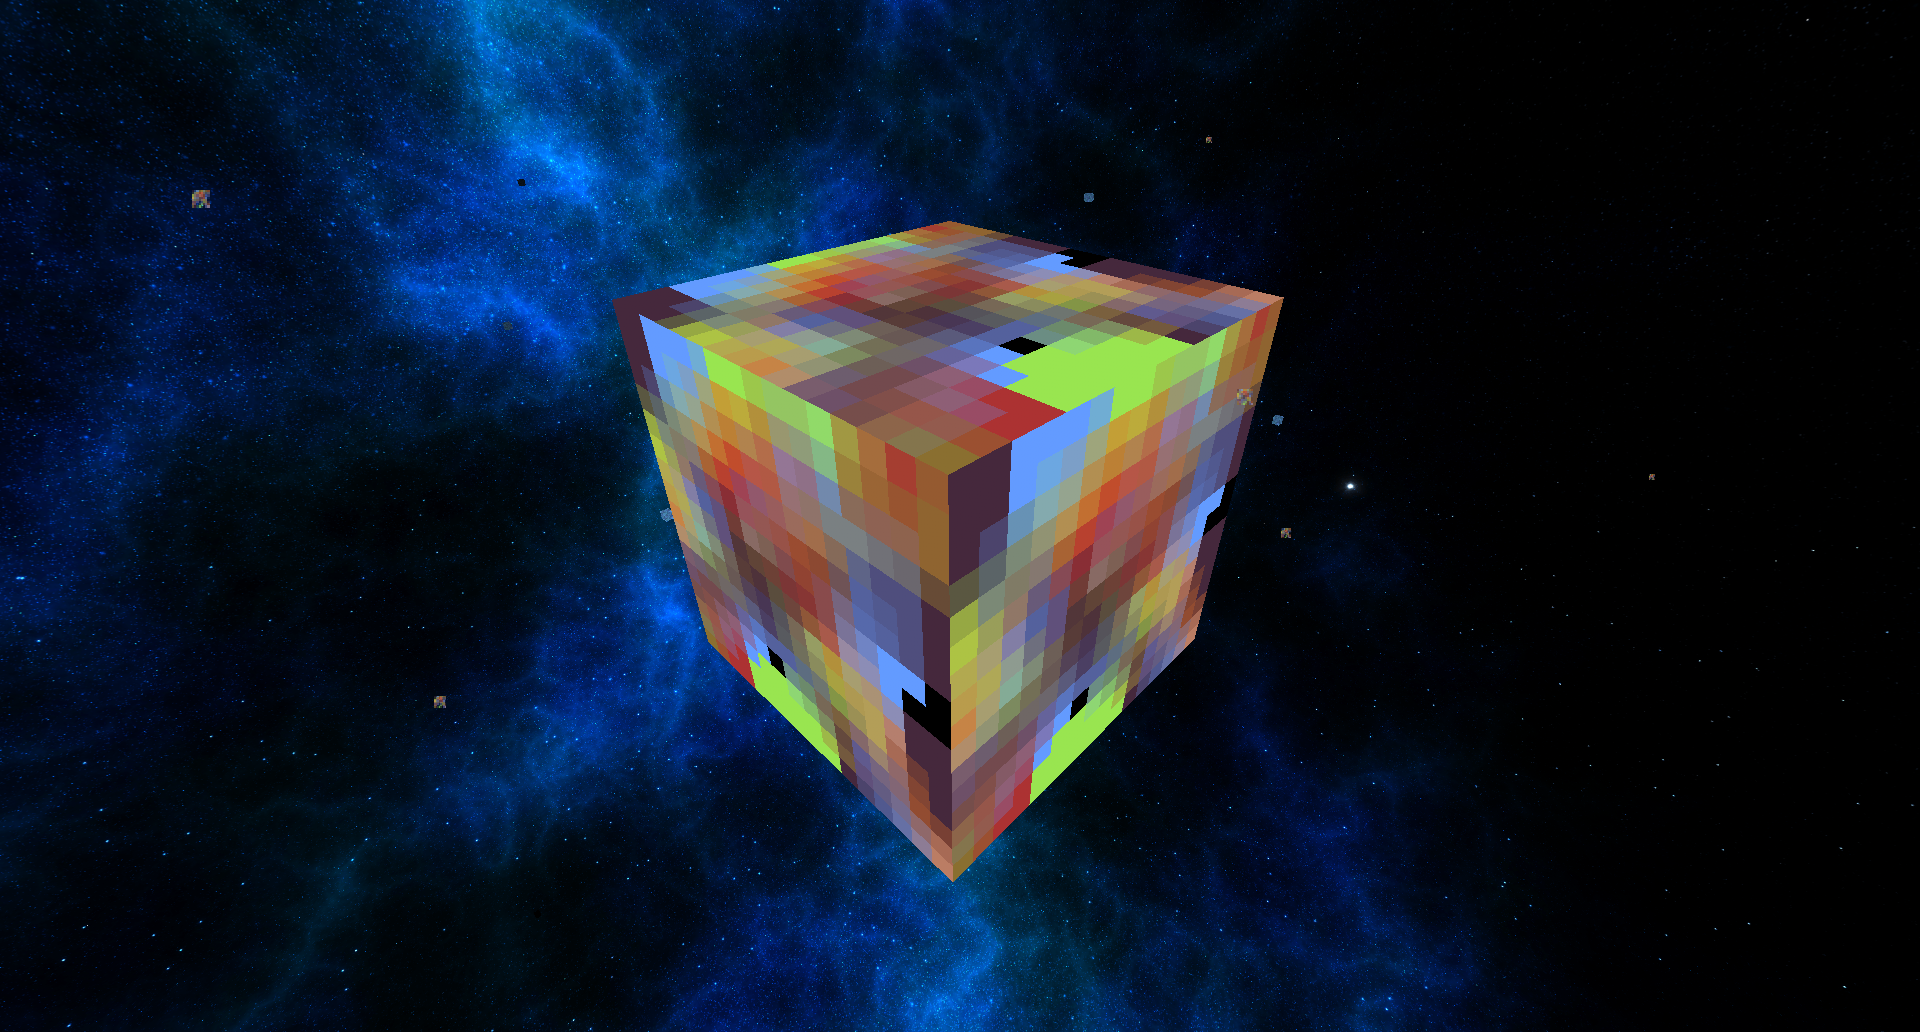
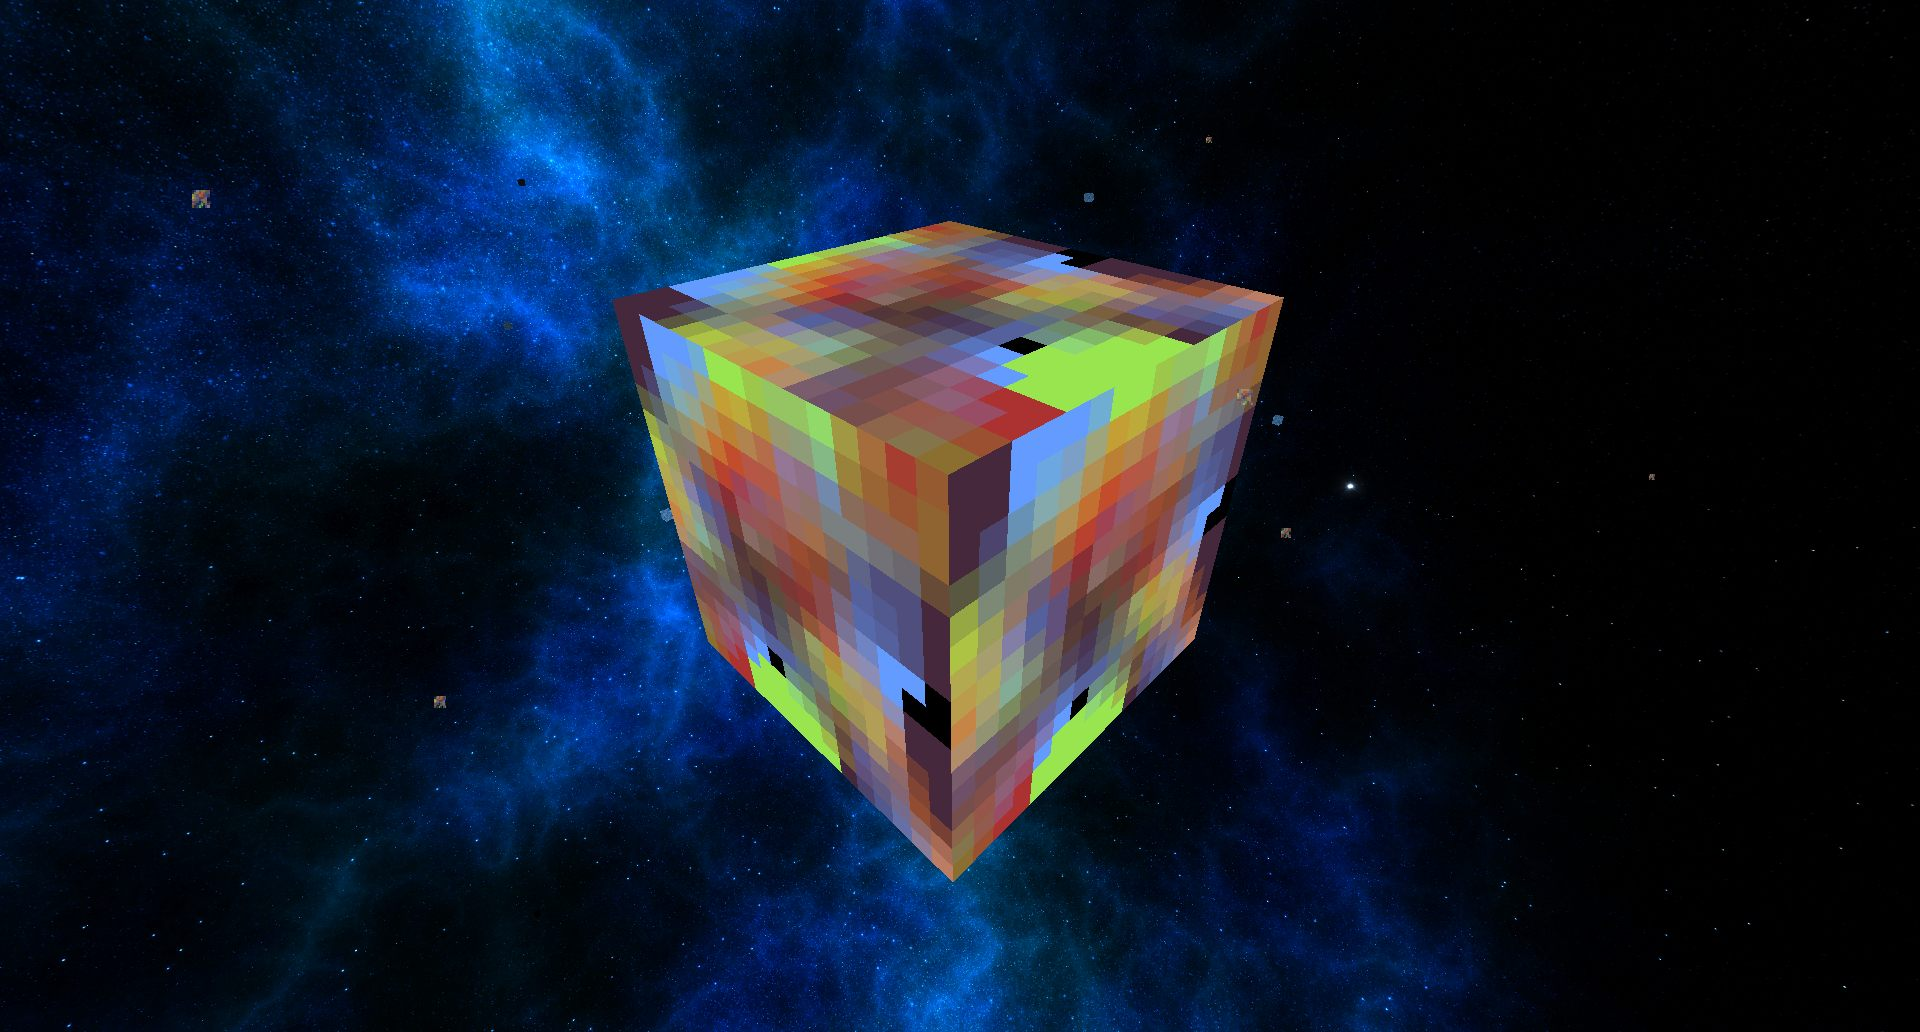
Fix up sounds

diff --git a/CHANGELOG.md b/CHANGELOG.md
@@ -1,13 +1,18 @@
 Release 29
+- Notice: Releases may be really small like this one, or HUGE like release 28
+- Started doing changelogs again
 - Added more "info sections" to the questbook, told people that you can hold right click to the core in the questbook
 - Renamed 'Simple Charge Generator' to 'Core Dust Powered Generator', and renamed 'Antimatter Generator' to 'Antimatter Reaction Generator'
 - Fixed a bug where colorium storinators needed stemfruit... instead of colorium xD
 - Made bronze slightly darker 
 - Added Teleport Tube, and the proper quests for it
 - Changed some stuff about how jumpdrive moves nodes that need special compatibility
-  - If this creates any bugs, REPORT THEM!
+  - If this creates any bugs, please report them!
 - Fix bug with the "Radiation shielding" text
 - Fireworks have been improved
+- Client lag with molten liquids should be reduced
+- Fixed a bug with ladders, where they refused to go in certain directions
+- Compressed images, lossy compressed the background to 200kb
 
 Release 10
 - Completely recode energy system to use "Cosmic Joules" instead of "Global Power"
